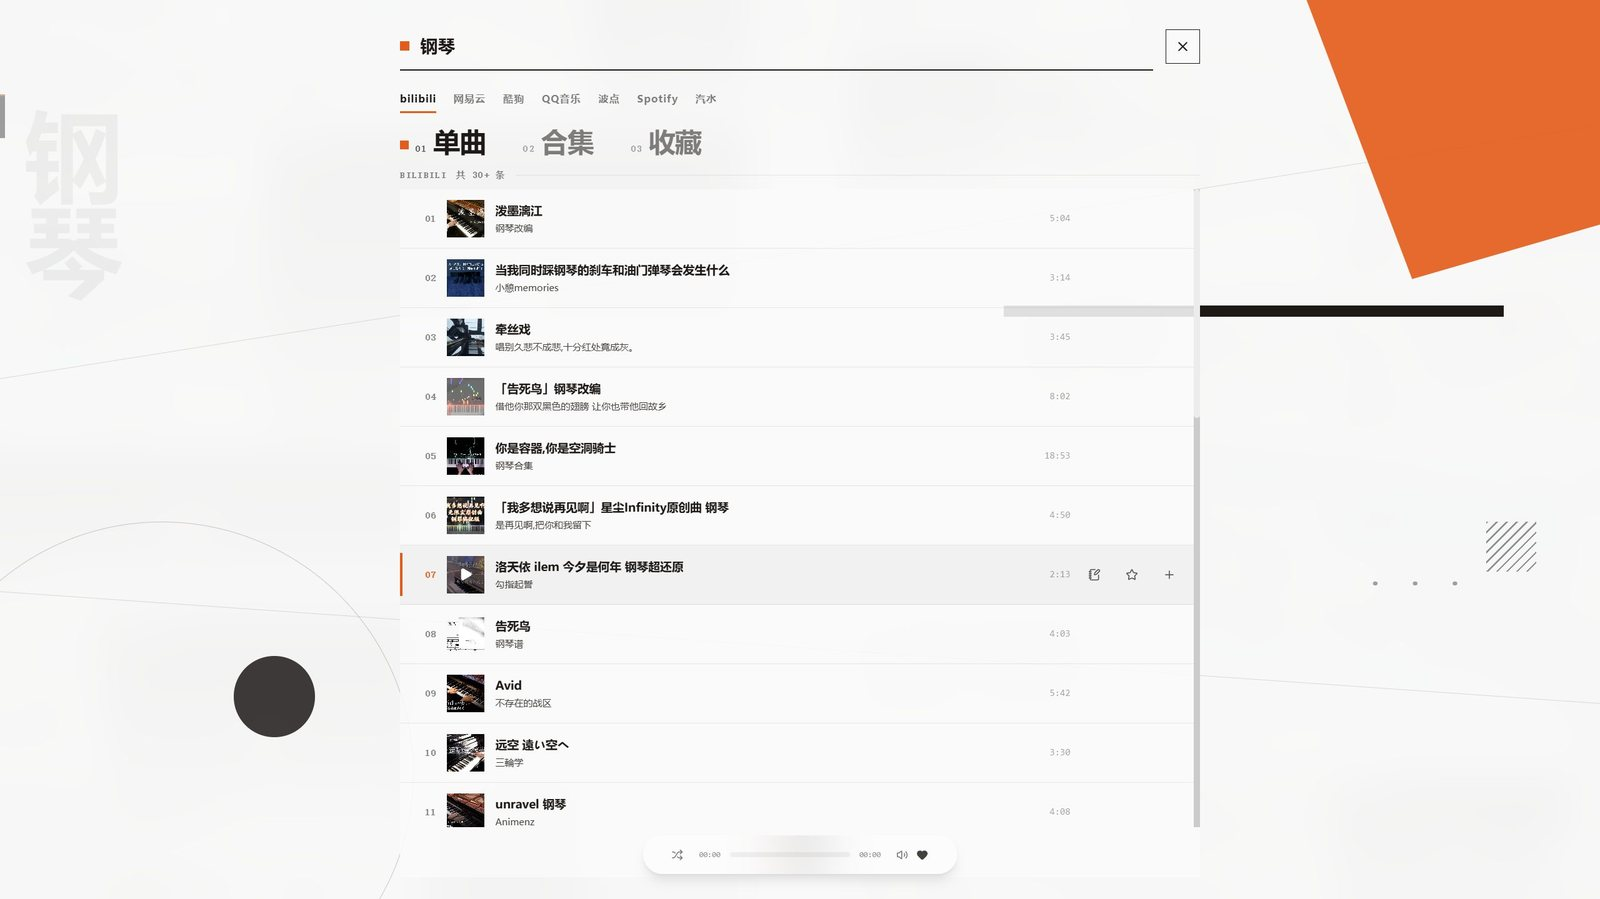
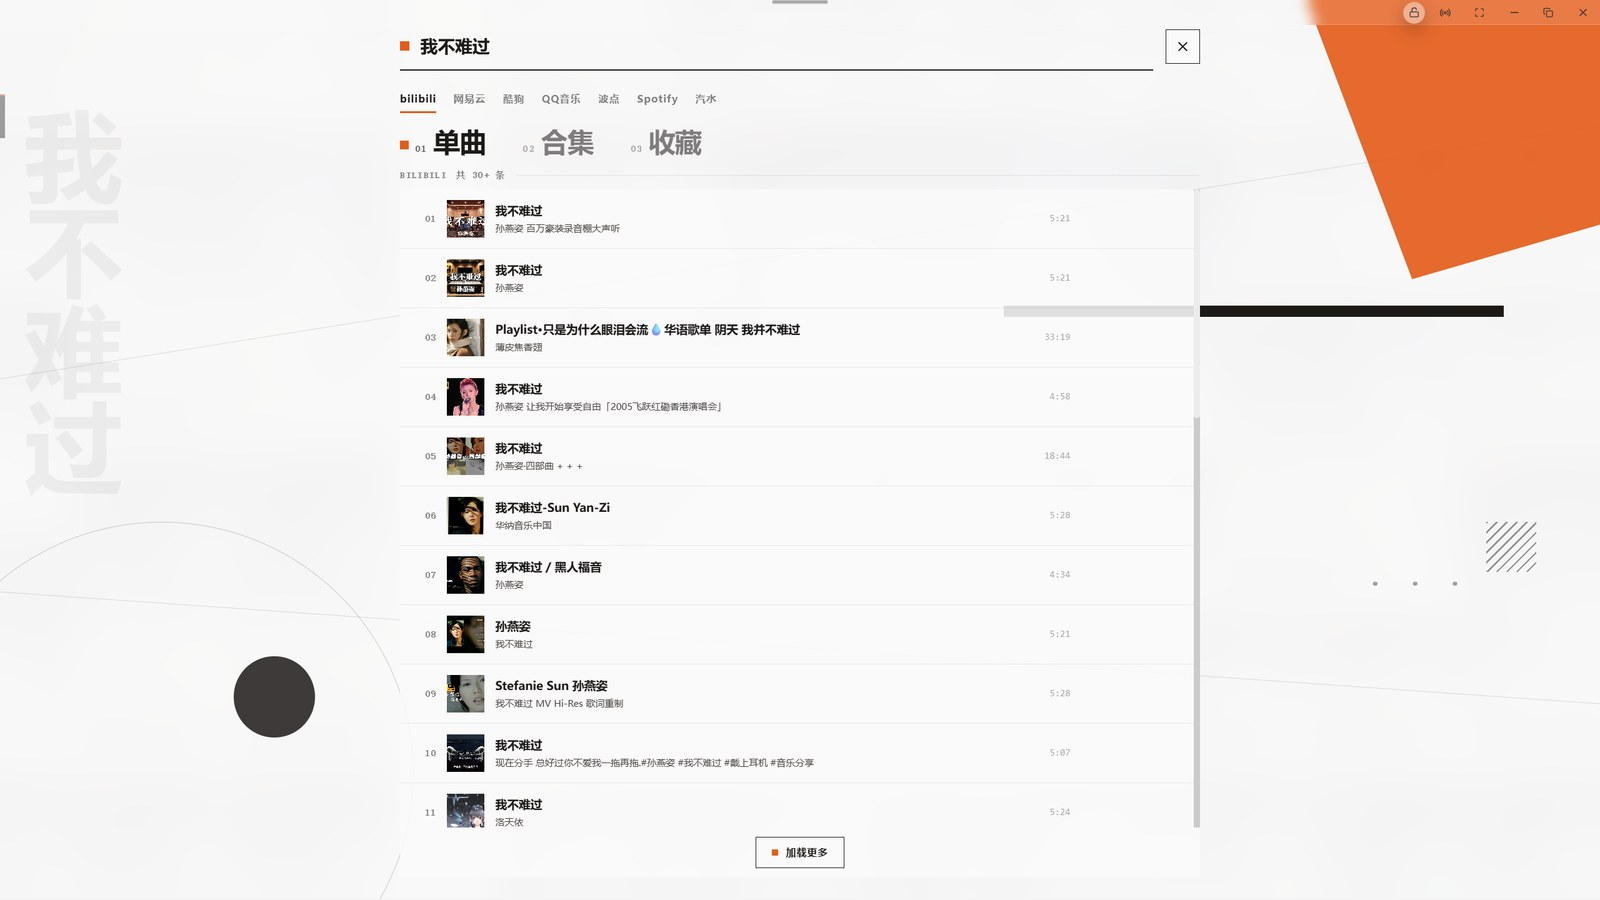
docs: 换用实机截图，播放器页改成动图
- 播放器页换成录屏转的 GIF（720 宽 / 10fps / 21s，6.1MB），能看到歌词逐行高亮
- 搜索页、收藏页换成实机全窗截图（1600 宽）
- 删掉旧的 player.jpg

diff --git a/README.md b/README.md
@@ -51,9 +51,9 @@
 
 ## 截图
 
-播放器页：封面、逐行歌词、音质标签都来自 bilibili 那个视频。
+播放器页：封面、逐行歌词、音质标签都来自 bilibili 那个视频。下面这段是录的实机，歌词会跟着唱。
 
-![播放器页](docs/screenshots/player.jpg)
+![播放器页，歌词逐行高亮](docs/screenshots/player.gif)
 
 搜索页：搜的是 bilibili 全站视频，标题会顺手洗成「歌名 / 歌手」。除了「单曲」「合集」，还多一个「收藏」页签，能在自己的收藏夹里搜。
 
